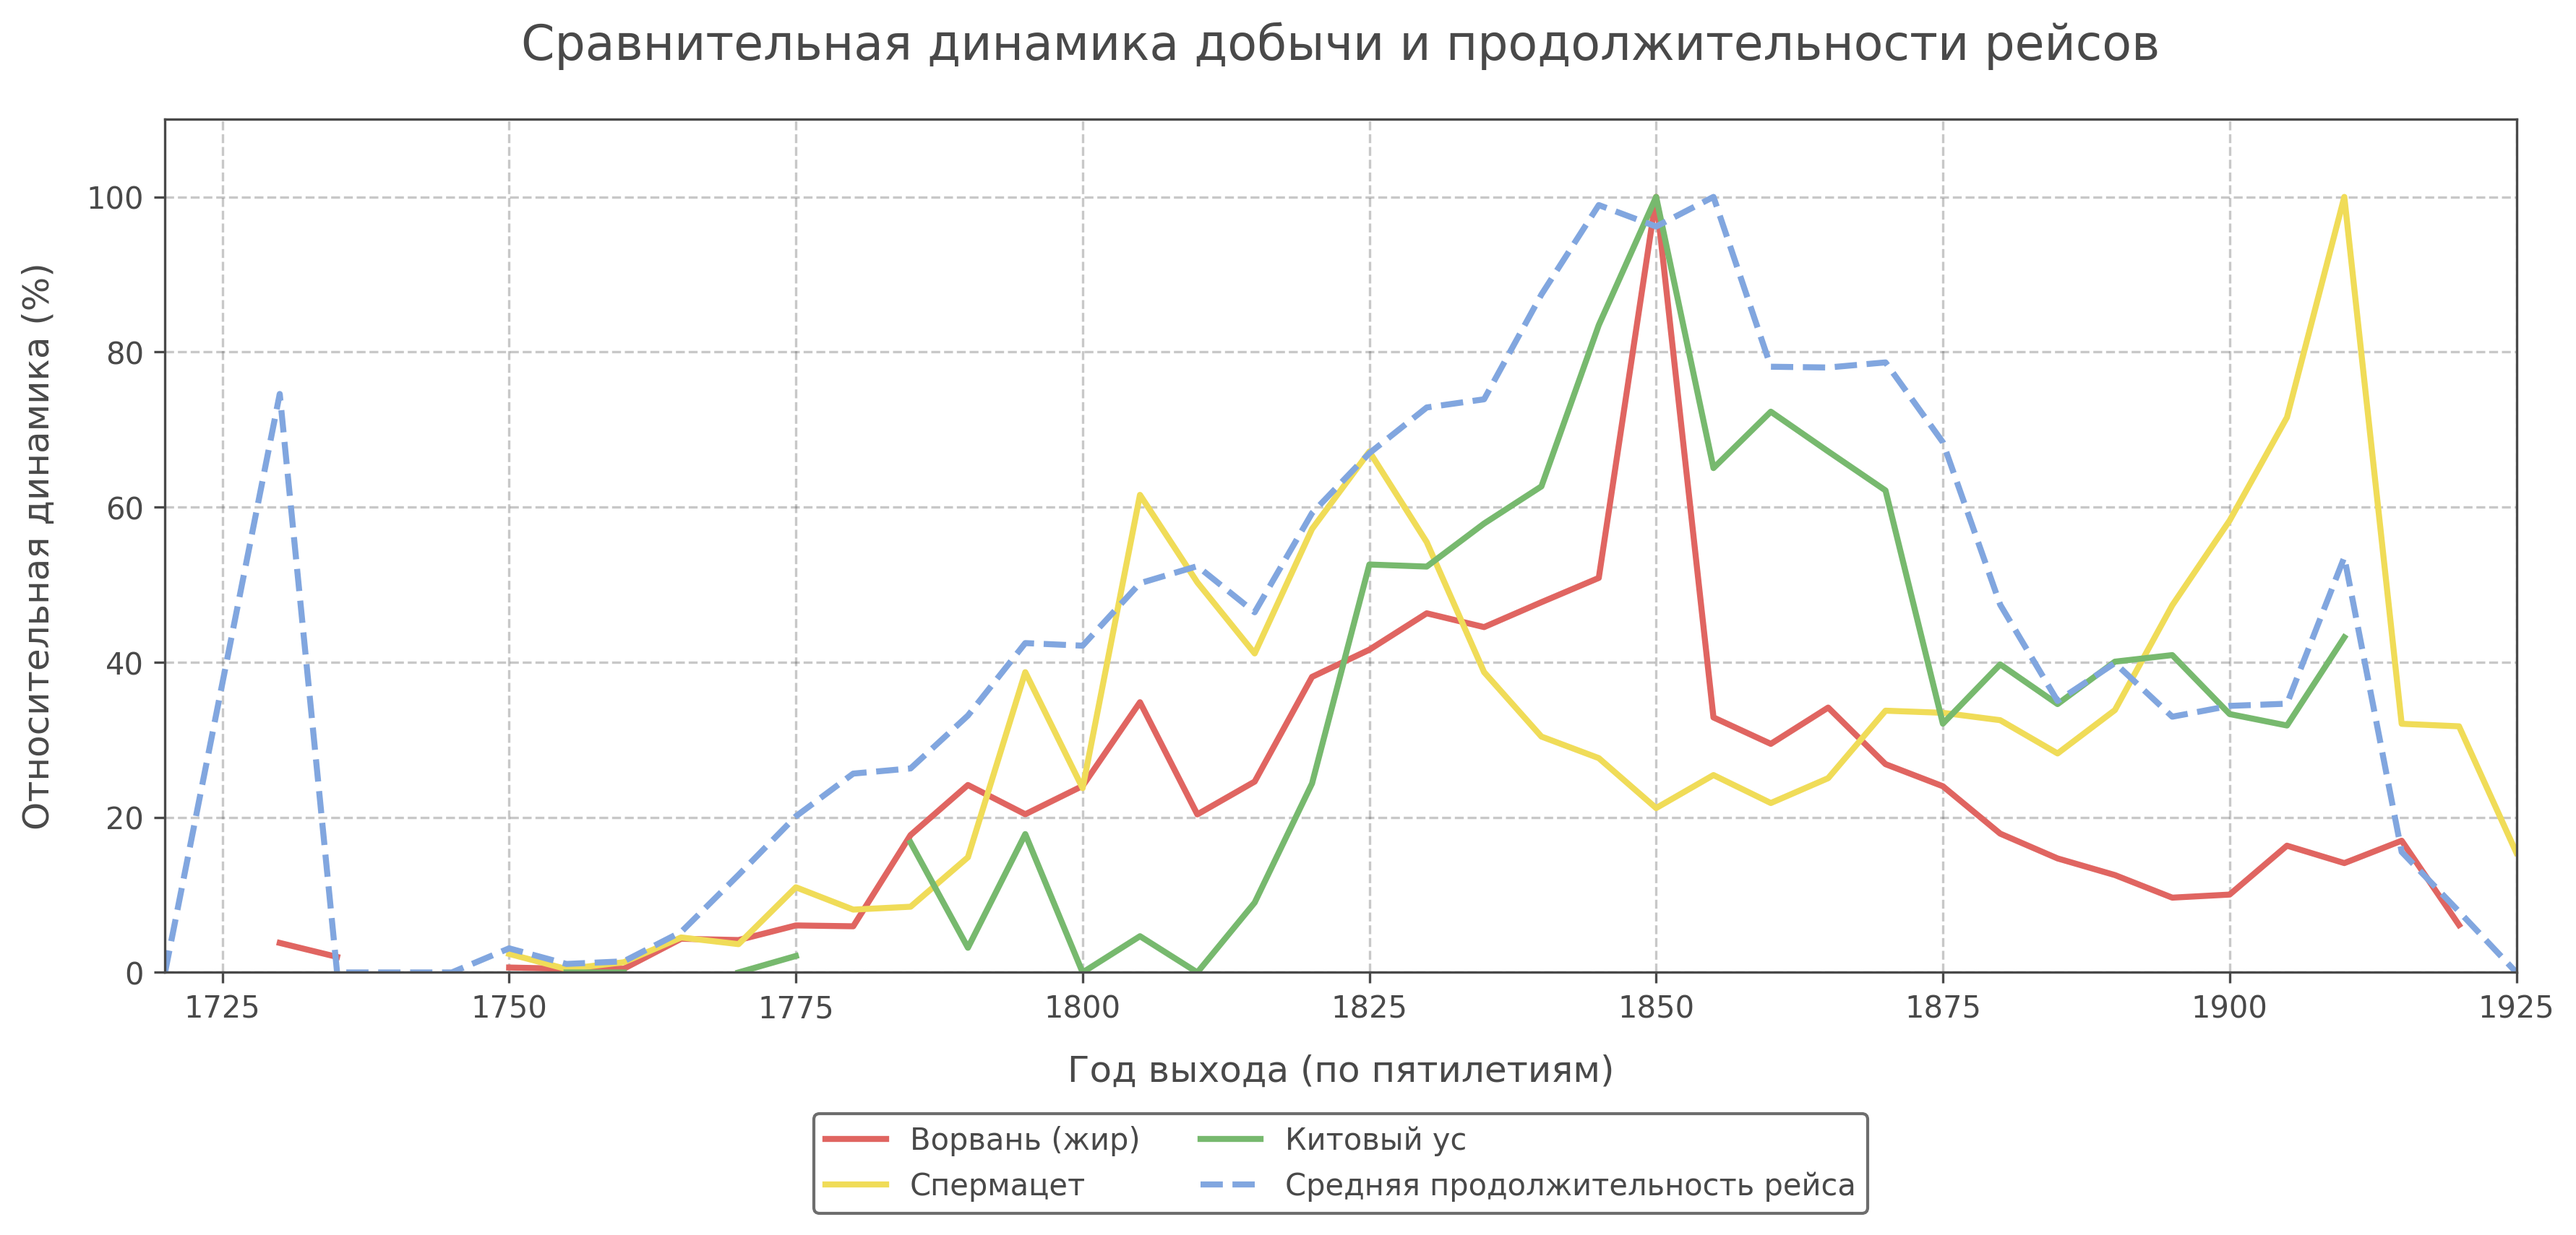
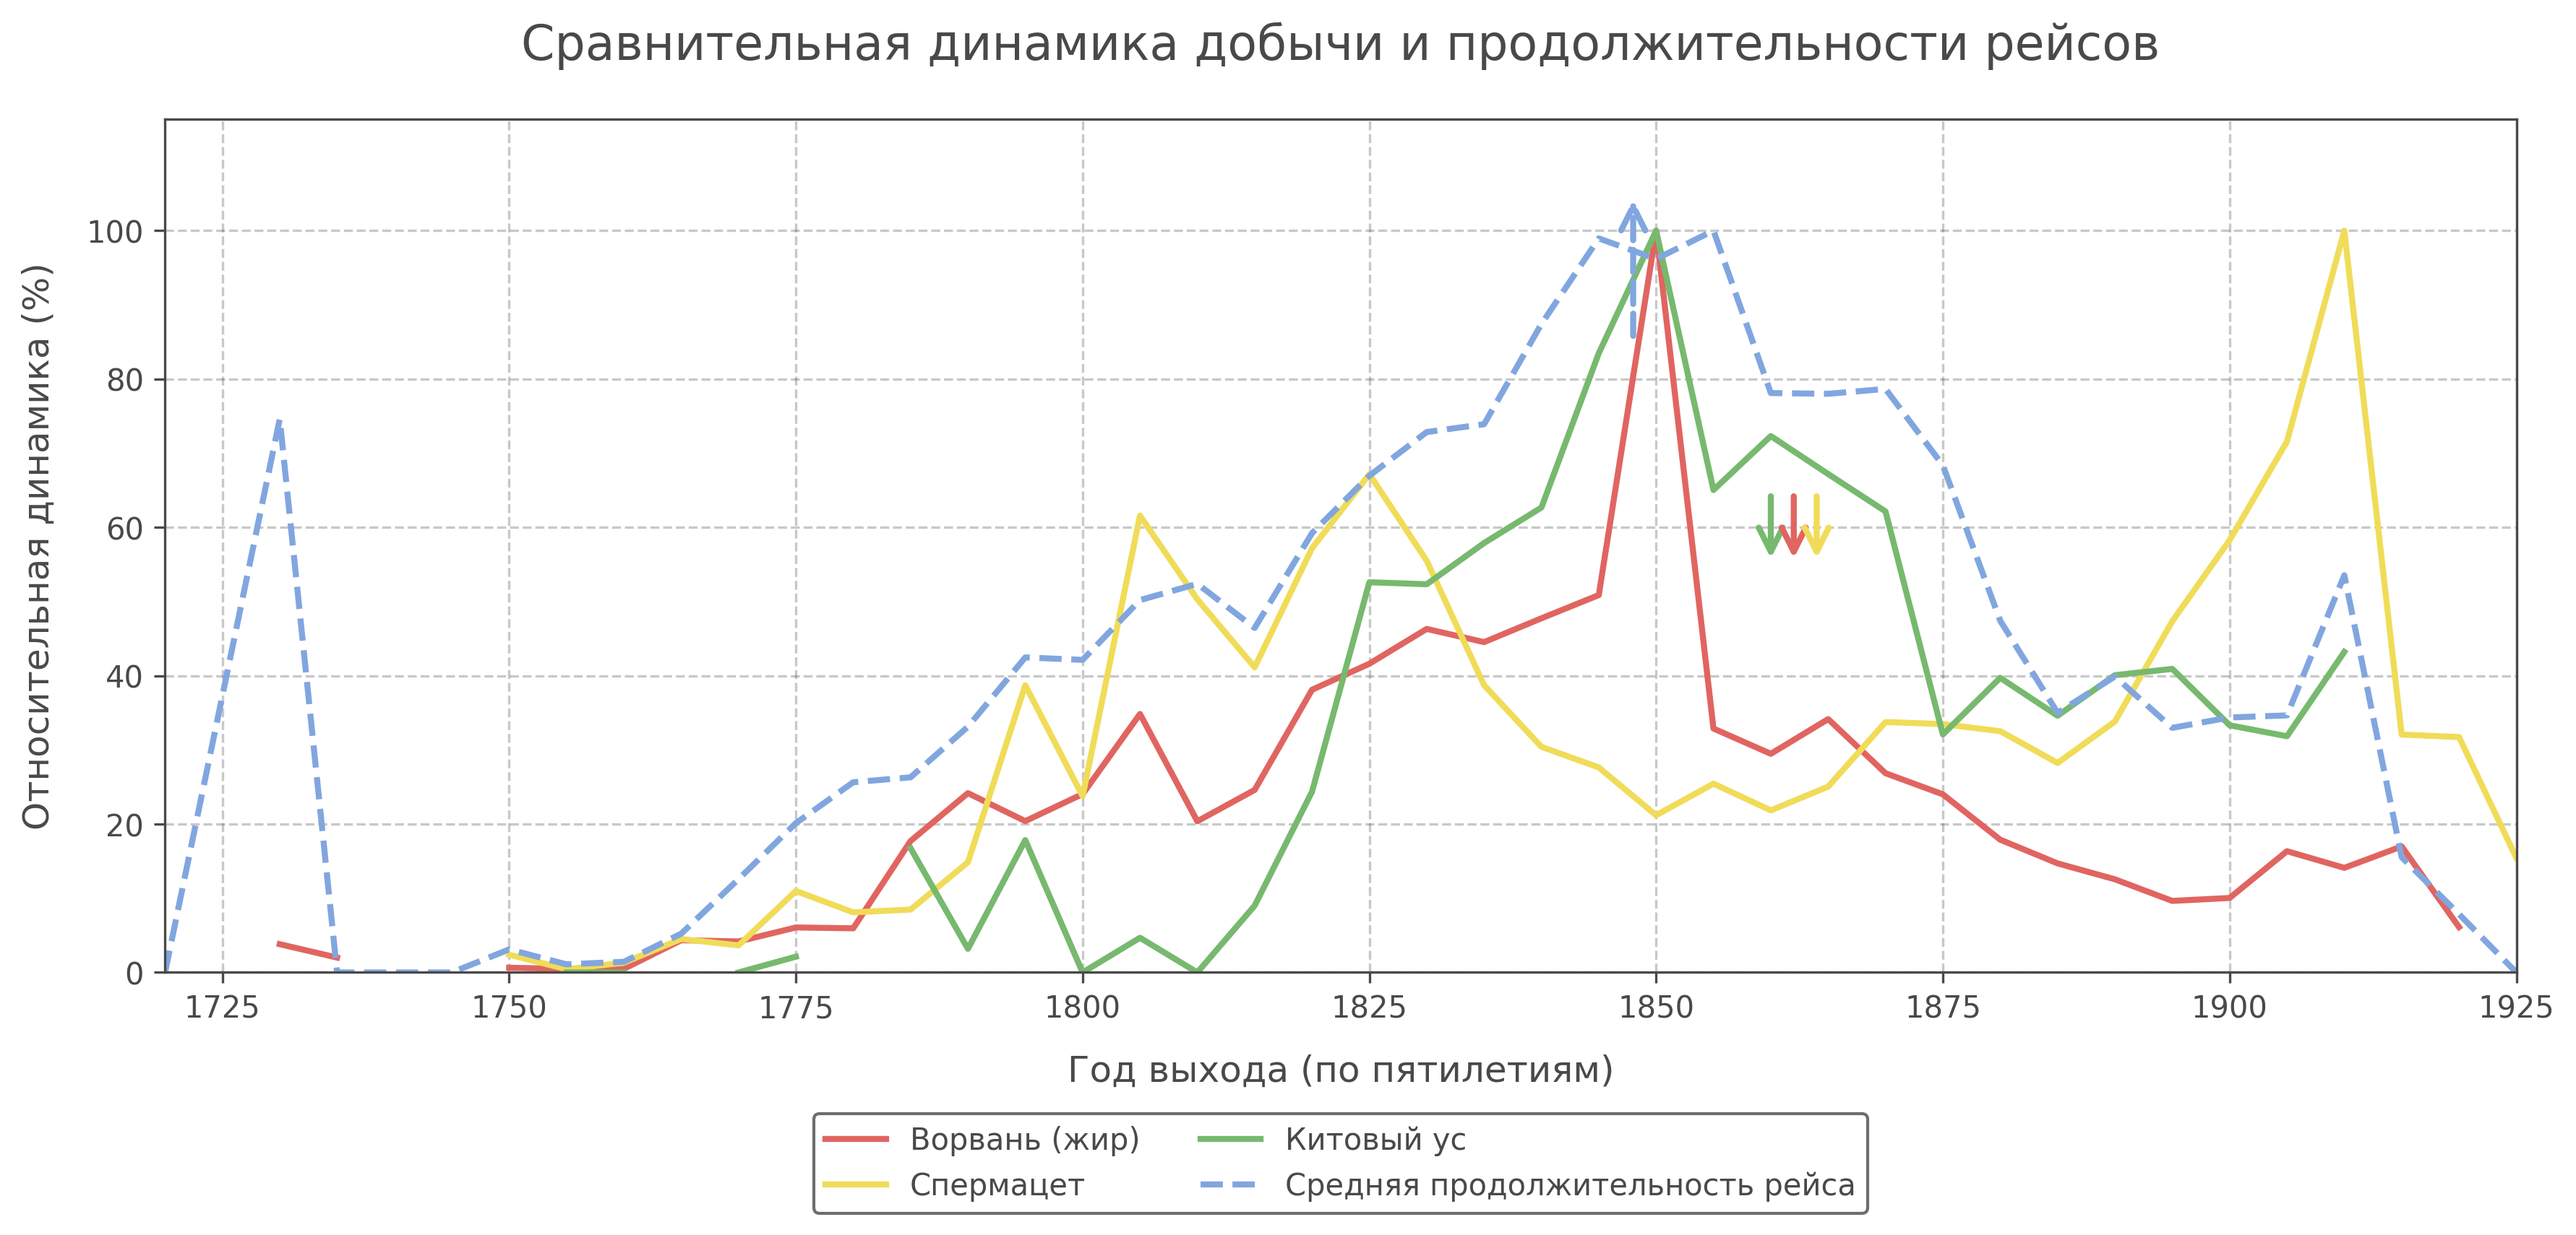
feat: small changes

diff --git a/src/graphs/graph2.py b/src/graphs/graph2.py
@@ -8,7 +8,7 @@ from src.style import BLUE, GREEN, RED, TEXT_COLOR, YELLOW, apply_global_style
 def run() -> None:
     # 1. Load data
     data_path = ROOT_DIR / "data" / "whaling_data_clean.csv"
-    df = pd.read_csv(data_path)
+    df = pd.read_csv(data_path, low_memory=False)
 
     # 2. Preprocess
     # Group by 5-year intervals (five-year periods)
@@ -70,6 +70,59 @@ def run() -> None:
         label="Средняя продолжительность рейса",
     )
 
+    # Add arrows as in sample2.jpg
+    # One blue dashed arrow pointing up from the duration line peak
+    ax.annotate(
+        "",
+        xy=(1848, 105),  # End of the arrow (tip)
+        xytext=(1848, 85),  # Start of the arrow (tail)
+        arrowprops={
+            "arrowstyle": "->",
+            "linestyle": "--",
+            "color": BLUE,
+            "linewidth": 2,
+            "mutation_scale": 20,
+        },
+    )
+
+    # Three other markers (arrows/indicators) near each other as in sample2
+    # In sample2 they are positioned near 1860, pointing down
+    # (Green, Red, Yellow arrows)
+    x_pos = 1862
+    ax.annotate(
+        "",
+        xy=(x_pos - 2, 55),
+        xytext=(x_pos - 2, 65),
+        arrowprops={
+            "arrowstyle": "->",
+            "color": GREEN,
+            "linewidth": 2,
+            "mutation_scale": 20,
+        },
+    )
+    ax.annotate(
+        "",
+        xy=(x_pos, 55),
+        xytext=(x_pos, 65),
+        arrowprops={
+            "arrowstyle": "->",
+            "color": RED,
+            "linewidth": 2,
+            "mutation_scale": 20,
+        },
+    )
+    ax.annotate(
+        "",
+        xy=(x_pos + 2, 55),
+        xytext=(x_pos + 2, 65),
+        arrowprops={
+            "arrowstyle": "->",
+            "color": YELLOW,
+            "linewidth": 2,
+            "mutation_scale": 20,
+        },
+    )
+
     # Visual style following sample2.jpg (but with white background)
     ax.set_title(
         "Сравнительная динамика добычи и продолжительности рейсов",
@@ -85,7 +138,7 @@ def run() -> None:
 
     # Axis limits and ticks
     ax.set_xlim(grouped["five_year"].min(), grouped["five_year"].max())
-    ax.set_ylim(0, 110)  # A bit above 100 for better view
+    ax.set_ylim(0, 115)  # A bit more room for arrows
 
     # Legend
     ax.legend(loc="lower center", bbox_to_anchor=(0.5, -0.3), ncol=2, frameon=True)

diff --git a/src/graphs/graph1.py b/src/graphs/graph1.py
@@ -8,7 +8,7 @@ from src.style import BLUE, TEXT_COLOR, YELLOW, apply_global_style
 def run() -> None:
     # 1. Load data
     data_path = ROOT_DIR / "data" / "whaling_data_clean.csv"
-    df = pd.read_csv(data_path)
+    df = pd.read_csv(data_path, low_memory=False)
 
     # 2. Preprocess
     # Group by 5-year intervals (five-year periods)
@@ -57,6 +57,25 @@ def run() -> None:
         linewidth=2,
         linestyle="--",
         label="Успешность рейсов (отн.)",
+    )
+
+    # Find the actual peak of the duration line
+    peak_idx = grouped["voyage_duration"].idxmax()
+    peak_x = grouped.loc[peak_idx, "five_year"]
+    peak_y = grouped.loc[peak_idx, "voyage_duration"]
+
+    # Draw the point (large blue circle)
+    ax.plot(peak_x, peak_y, "o", color=BLUE, markersize=12)
+
+    # Text label next to the peak
+    ax.text(
+        peak_x + 3,
+        peak_y,
+        f"{int(peak_x)} г.\nсреднее {peak_y:.2f} лет.",
+        color=TEXT_COLOR,
+        fontsize=12,
+        fontweight="bold",
+        verticalalignment="center",
     )
 
     # Visual style following sample1.jpg (but with white background)
